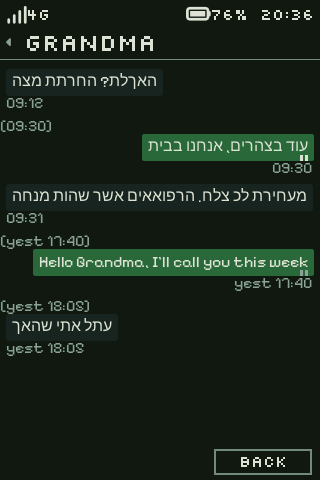
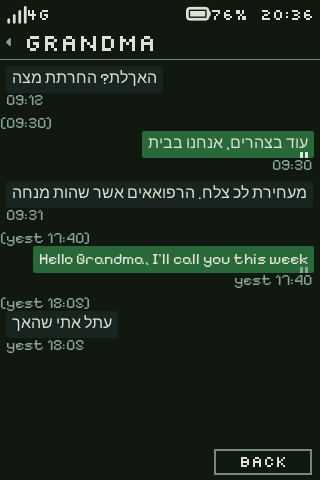
audit: fix the conversation grouping read, the font fallback, the settings writer and the untracked docs

Changed region(s): [[0.0, 0.25, 1.0, 0.75], [0.0, 0.125, 0.5, 0.2812]]

diff --git a/firmware/test/test_host.c b/firmware/test/test_host.c
@@ -18,6 +18,7 @@
 #include "hal/hal_storage.h"
 #include "model/chat_model.h"
 #include "model/settings.h"
+#include "ui/ui_theme.h"
 #include "ui/ui_geometry.h"
 #include "ui/ui_input.h"
 #include "ui/ui_text.h"
@@ -140,6 +141,24 @@ static void test_ui_geometry(void)
     ui_geometry_set_softkeys(true);
     CHECK(ui_geom_softkeys() == true, "geom softkeys: flag on");
 
+    /* Soft-key caps (issue #14): three derived caps always fit the panel.
+     * The 320 identity is the old 98/104 pair; every other width keeps the
+     * third cap on the panel. */
+    static const int cap_widths[] = { 120, 200, 240, 320, 480, 1280 };
+    for (unsigned i = 0; i < sizeof cap_widths / sizeof cap_widths[0]; i++) {
+        int w = cap_widths[i];
+        ui_geometry_set(w, 480);
+        int cw = ui_sk_cap_w();
+        int pitch = ui_sk_cap_pitch();
+        CHECK(cw > 0 && pitch > cw, "geom caps: width and pitch positive");
+        CHECK(UI_SK_CAP_INSET + 2 * pitch + cw <= w,
+              "geom caps: all three fit the panel");
+        if (w == 320) {
+            CHECK(cw == 98 && pitch == 104, "geom caps: 320 identity 98/104");
+        }
+    }
+    ui_geometry_set(320, 480);
+
     /* Out-of-range sizes are clamped to the sane window. */
     ui_geometry_set(50, 50);
     CHECK(ui_geom_w() == 120 && ui_geom_h() == 160, "geom clamp: 50x50 -> 120x160");
@@ -243,6 +262,46 @@ static void test_model_chats(void)
 }
 
 /* ------------------------------------------------------------------ */
+/* font preferences — the two independent rings (issue #16), and the   */
+/* corrupt-value fallback that keeps each role on its own default.     */
+/* ------------------------------------------------------------------ */
+
+static void test_ui_font_prefs(void)
+{
+    CHECK(ui_face_lookup("silk") == UI_FACE_SILKSCREEN,
+          "font: face lookup by short name");
+    CHECK(ui_face_lookup("Silkscreen") == UI_FACE_SILKSCREEN,
+          "font: face lookup by full name");
+    CHECK(ui_face_lookup("nope") < 0, "font: unknown face rejected");
+
+    model_settings_reset();
+
+    /* The FACE ring keeps the size; the SIZE ring keeps the face. */
+    ui_font_pref_t a = ui_font_pref(UI_FONT_HEADER);
+    ui_font_face_next(UI_FONT_HEADER);
+    ui_font_pref_t b = ui_font_pref(UI_FONT_HEADER);
+    CHECK(b.px == a.px, "font: face change keeps the size");
+    CHECK(b.face != a.face, "font: face change moves the face");
+
+    ui_font_size_next(UI_FONT_HEADER);
+    ui_font_pref_t c = ui_font_pref(UI_FONT_HEADER);
+    CHECK(c.face == b.face, "font: size change keeps the face");
+    CHECK(c.px != b.px, "font: size change moves the size");
+
+    /* A stored value outside the rings falls back to THAT role's default,
+     * not to another role's face/size (the old fallback was header's). */
+    model_settings_set_font(UI_FONT_SUBTEXT, 200, 16);
+    CHECK(ui_font_pref(UI_FONT_SUBTEXT).face == UI_FACE_PIXELIFY,
+          "font: corrupt face falls back to the role default");
+    model_settings_set_font(UI_FONT_TEXT, UI_FACE_VT323, 0);
+    CHECK(ui_font_pref(UI_FONT_TEXT).px == UI_FONT_BODY_L_PX,
+          "font: corrupt size falls back to the role default");
+
+    hal_storage_remove(HAL_STORAGE_USER, "settings");
+    model_settings_reset();
+}
+
+/* ------------------------------------------------------------------ */
 /* model settings — the round-trip through hal_storage (spec §16.4).  */
 /* Mutate, save, wipe memory, load: every value must come back. The    */
 /* parser's leniency is pinned too: unknown keys ignored, missing     */
@@ -262,7 +321,9 @@ static void test_model_settings(void)
     model_settings_set_menu_style(MODEL_MENU_GRID);
     model_settings_set_theme(MODEL_THEME_LIGHT);
     model_settings_set_softkeys(false);
-    model_settings_set_font(1, 3, 20);
+    model_settings_set_font(0, 3, 32);   /* Headers  Jersey 32 */
+    model_settings_set_font(1, 3, 20);   /* Text     Jersey 20 */
+    model_settings_set_font(2, 0, 20);   /* Subtext  VT323  20 */
     model_settings_set_speeddial(2, "Work");
     model_settings_cycle_heldpress(1);   /* slot 1: none -> new message */
 
@@ -277,8 +338,12 @@ static void test_model_settings(void)
     CHECK(s->menu_style == MODEL_MENU_GRID, "settings: menu style round-trip");
     CHECK(s->theme == MODEL_THEME_LIGHT, "settings: theme round-trip");
     CHECK(s->softkeys == false, "settings: softkeys round-trip");
+    CHECK(s->fonts[0].face == 3 && s->fonts[0].px == 32,
+          "settings: header font round-trip");
     CHECK(s->fonts[1].face == 3 && s->fonts[1].px == 20,
-          "settings: font round-trip");
+          "settings: text font round-trip");
+    CHECK(s->fonts[2].face == 0 && s->fonts[2].px == 20,
+          "settings: subtext font round-trip");
     CHECK(strcmp(s->speeddial[2], "Work") == 0, "settings: speeddial round-trip");
     CHECK(s->heldpress[1] == MODEL_HP_NEW_MESSAGE, "settings: heldpress round-trip");
 
@@ -322,6 +387,7 @@ int main(void)
     test_ui_geometry();
     test_key_repeat();
     test_model_chats();
+    test_ui_font_prefs();
     test_model_settings();
 
     printf("test-host: %d passed, %d failed\n", n_pass, n_fail);

diff --git a/firmware/model/settings.c b/firmware/model/settings.c
@@ -8,6 +8,7 @@
  */
 #include "model/settings.h"
 
+#include <stdarg.h>
 #include <stdio.h>
 #include <stdlib.h>
 #include <string.h>
@@ -210,37 +211,49 @@ int model_settings_heldpress_slot(int hal_key)
 #define SETTINGS_FILE  "settings"
 #define SETTINGS_VER   "1"
 
+/* Append one formatted line, never moving `off` past the buffer: a full
+ * buffer stops taking text instead of running the pointer off the end (the
+ * old `off += snprintf()` pattern grew `off` past the array once the text
+ * outgrew it, and the next `buf + off` was out of bounds). */
+static void app(char *buf, size_t cap, int *off, const char *fmt, ...)
+{
+    if (*off < 0 || (size_t)*off + 1 >= cap) {
+        return;
+    }
+    va_list ap;
+    va_start(ap, fmt);
+    int n = vsnprintf(buf + *off, cap - (size_t)*off, fmt, ap);
+    va_end(ap);
+    if (n > 0) {
+        *off += n;
+        if ((size_t)*off >= cap) {
+            *off = (int)cap - 1;   /* keep the terminator's byte */
+        }
+    }
+}
+
 int model_settings_save(void)
 {
     char buf[768];
     int off = 0;
     const model_settings_t *s = &g_settings;
 
-    off += snprintf(buf + off, sizeof buf - off, "%s\n", SETTINGS_VER);
-    off += snprintf(buf + off, sizeof buf - off, "menu_style=%u\n",
-                    s->menu_style);
-    off += snprintf(buf + off, sizeof buf - off, "call_pref=%u\n",
-                    s->call_pref);
-    off += snprintf(buf + off, sizeof buf - off, "theme=%u\n", s->theme);
-    off += snprintf(buf + off, sizeof buf - off, "softkeys=%d\n",
-                    s->softkeys ? 1 : 0);
+    app(buf, sizeof buf, &off, "%s\n", SETTINGS_VER);
+    app(buf, sizeof buf, &off, "menu_style=%u\n", s->menu_style);
+    app(buf, sizeof buf, &off, "call_pref=%u\n", s->call_pref);
+    app(buf, sizeof buf, &off, "theme=%u\n", s->theme);
+    app(buf, sizeof buf, &off, "softkeys=%d\n", s->softkeys ? 1 : 0);
     for (int r = 0; r < MODEL_SETTINGS_FONT_ROLES; r++) {
         const char *k = r == 0 ? "font_header" : r == 1 ? "font_text"
                         : "font_subtext";
-        off += snprintf(buf + off, sizeof buf - off, "%s=%u:%u\n", k,
-                        s->fonts[r].face, s->fonts[r].px);
+        app(buf, sizeof buf, &off, "%s=%u:%u\n", k, s->fonts[r].face,
+            s->fonts[r].px);
     }
     for (int i = 0; i < MODEL_SETTINGS_SPEEDDIAL_N; i++) {
-        char key[16];
-        snprintf(key, sizeof key, "speeddial_%d", i);
-        off += snprintf(buf + off, sizeof buf - off, "%s=%s\n", key,
-                        s->speeddial[i]);
+        app(buf, sizeof buf, &off, "speeddial_%d=%s\n", i, s->speeddial[i]);
     }
     for (int i = 0; i < MODEL_SETTINGS_HELDPRESS_N; i++) {
-        char key[16];
-        snprintf(key, sizeof key, "heldpress_%d", i);
-        off += snprintf(buf + off, sizeof buf - off, "%s=%u\n", key,
-                        s->heldpress[i]);
+        app(buf, sizeof buf, &off, "heldpress_%d=%u\n", i, s->heldpress[i]);
     }
     return hal_storage_write_file(HAL_STORAGE_USER, SETTINGS_FILE, buf,
                                   (size_t)off);

diff --git a/firmware/ui/ui_theme.c b/firmware/ui/ui_theme.c
@@ -186,11 +186,23 @@ static const uint8_t g_size_n[UI_FONT_ROLE_COUNT] = { 2, 3, 2 };
 static ui_palette_t  g_pal;
 static void        (*g_apply_cb)(void);
 
+/* The shipped default of each role. Also the fallback when the stored
+ * preference is out of range (a corrupt or hand-edited settings file must
+ * never make a role render in another role's face/size). */
+static const ui_font_pref_t g_font_default[UI_FONT_ROLE_COUNT] = {
+    [UI_FONT_HEADER]  = { UI_FACE_SILKSCREEN, UI_FONT_TITLE_PX },
+    [UI_FONT_TEXT]    = { UI_FACE_VT323,      UI_FONT_BODY_L_PX },
+    [UI_FONT_SUBTEXT] = { UI_FACE_PIXELIFY,   UI_FONT_BODY_M_PX },
+};
+
 ui_font_pref_t ui_font_pref(ui_font_role_t role)
 {
-    ui_font_pref_t p = { UI_FACE_SILKSCREEN, UI_FONT_TITLE_PX };
-    if ((unsigned)role < UI_FONT_ROLE_COUNT) {
-        const model_font_pref_t *m = &model_settings()->fonts[role];
+    if ((unsigned)role >= UI_FONT_ROLE_COUNT) {
+        return g_font_default[UI_FONT_TEXT];
+    }
+    ui_font_pref_t p = g_font_default[role];
+    const model_font_pref_t *m = &model_settings()->fonts[role];
+    if (m->face < UI_FACE_COUNT && m->px >= 8 && m->px <= 160) {
         p.face = (ui_face_t)m->face;
         p.px   = m->px;
     }
@@ -229,16 +241,6 @@ void ui_font_size_next(ui_font_role_t role)
     if (g_apply_cb) {
         g_apply_cb();
     }
-}
-
-int ui_font_sizes(ui_font_role_t role, const uint8_t **px)
-{
-    if ((unsigned)role >= UI_FONT_ROLE_COUNT) {
-        if (px) *px = NULL;
-        return 0;
-    }
-    if (px) *px = g_sizes[role];
-    return g_size_n[role];
 }
 
 int ui_face_lookup(const char *name)

diff --git a/firmware/ui/ui_chat_view.c b/firmware/ui/ui_chat_view.c
@@ -159,10 +159,14 @@ static void build_chain(void)
     for (int i = 0; i < g_count; i++) {
         const ui_message_t *m = &g_cur.msgs[i];
 
-        /* Group boundary: a new side, and — when the gap is meaningful —
-         * a divider chip between the groups. */
+        /* Group boundary: consecutive messages from the SAME side sit tight
+         * (GAP_SAME); a change of side opens a new group (GAP_GROUP). A
+         * meaningful time gap also draws a divider chip. (This branch used
+         * to read msgs[-1] for the first message and take the group gap on
+         * every pair, so a same-side run never grouped.) */
         if (i > 0) {
-            y += UI_BUBBLE_GAP_GROUP;
+            y += (g_cur.msgs[i - 1].mine == m->mine)
+                     ? UI_BUBBLE_GAP_SAME : UI_BUBBLE_GAP_GROUP;
             if (ui_msg_needs_divider(&g_cur.msgs[i - 1], m)) {
                 char tbuf[24];
                 ui_msg_time_fmt(m->ts, tbuf, sizeof tbuf);
@@ -176,8 +180,6 @@ static void build_chain(void)
                 lv_obj_align(g_divider[i], LV_ALIGN_TOP_MID, 0, y);
                 y += line_h;
             }
-        } else if (m->mine == g_cur.msgs[i - 1].mine) {
-            y += UI_BUBBLE_GAP_SAME;
         }
 
         /* Group senders ride above the body, incoming side only. */

diff --git a/firmware/ui/ui_settings.c b/firmware/ui/ui_settings.c
@@ -122,7 +122,7 @@ static void refresh_theme_meta(void)
     ui_theme_id_t cur = ui_theme_get();
     for (int i = 0; i < UI_THEME_COUNT; i++) {
                 g_theme_items[i].label = ui_theme_name((ui_theme_id_t)i);
-        g_theme_items[i].meta  = (i == cur) ? "ACTIVE" : NULL;
+        g_theme_items[i].meta  = ((int)i == (int)cur) ? "ACTIVE" : NULL;
     }
 }
 
@@ -340,11 +340,9 @@ ui_setting_effect_t ui_settings_theme_activate(uint8_t sel)
 
 ui_setting_effect_t ui_settings_font_activate(uint8_t sel)
 {
-    if (sel >= UI_FONT_ROLE_COUNT) {
-        return UI_SETTING_EFFECT_NONE;
-    }
-    /* The Font page's rows navigate to the role page; they no longer cycle
-     * anything themselves (issue #16). */
+    (void)sel;
+    /* The Font page's rows navigate to the role page; they cycle nothing
+     * themselves (issue #16). Kept so a future caller has the slot. */
     return UI_SETTING_EFFECT_NONE;
 }
 

diff --git a/firmware/ui/ui_theme.h b/firmware/ui/ui_theme.h
@@ -276,9 +276,8 @@ ui_font_pref_t ui_font_pref(ui_font_role_t role);
 void ui_font_face_next(ui_font_role_t role);
 void ui_font_size_next(ui_font_role_t role);
 
-/* The sizes a role offers, in ring order (entry 0 = the shipped default).
- * *px points at the table; returns the count. */
-int ui_font_sizes(ui_font_role_t role, const uint8_t **px);
+/* The sizes a role offers, in ring order (entry 0 = the shipped default). */
+void ui_font_size_next(ui_font_role_t role);
 
 /* Face by short name ("SILK", any case) — the harness CLI's --font spec.
  * Returns the ui_face_t id, or -1 when the name is unknown. */

diff --git a/firmware/model/messages.c b/firmware/model/messages.c
@@ -26,6 +26,9 @@ void model_messages_set(int chat_idx, const ui_message_t *msgs, int n)
     if (!msgs || chat_idx < 0 || chat_idx >= UI_CHAT_MAX) {
         return;
     }
+    if (n < 0) {
+        n = 0;   /* a source error must not turn into a huge memcpy */
+    }
     if (n > UI_MSG_MAX_PER_CHAT) {
         n = UI_MSG_MAX_PER_CHAT;
     }

diff --git a/docs/decisions.md b/docs/decisions.md
@@ -238,3 +238,11 @@ also steps down when the cap is narrower than "OPTIONS" needs (never at 320 or 2
 text cannot spill over its border. Frames that moved: every non-320 geometry scene
 (`*-240x320`, `*-240x400`, `*-480x800`, `*-480x640`, `*-1280x720`, `*-200x350`,
 `window-home-480x800`, `window-chat-digit-5-240x320`).
+
+## 21. Conversations group by side again (27/11, audit)
+
+`build_chain()` took the between-groups gap for every pair and, on the first message, read
+`msgs[-1]` inside a branch that could never be right. The gap is now chosen by side — same side
+3 px (`UI_BUBBLE_GAP_SAME`), a change of side 8 px (`UI_BUBBLE_GAP_GROUP`) — and a meaningful
+time gap still draws its divider. The six `conv-*` frames were re-shot for it; this is the
+first frame move since R1 that the spec already described but the code did not do.
